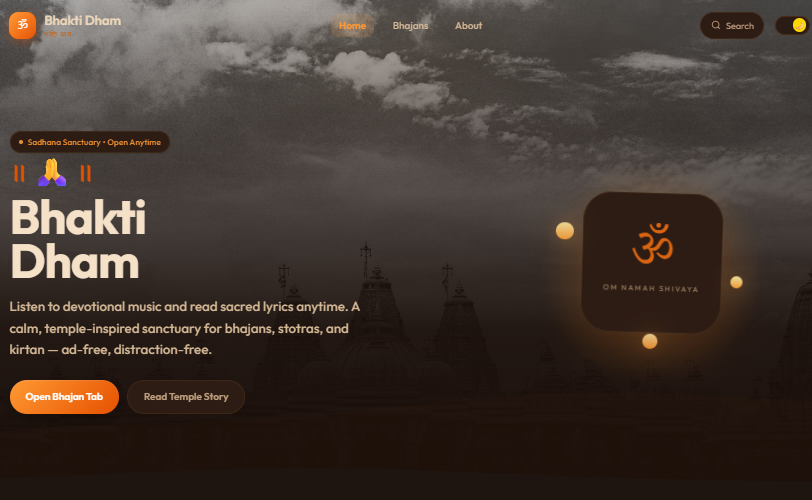
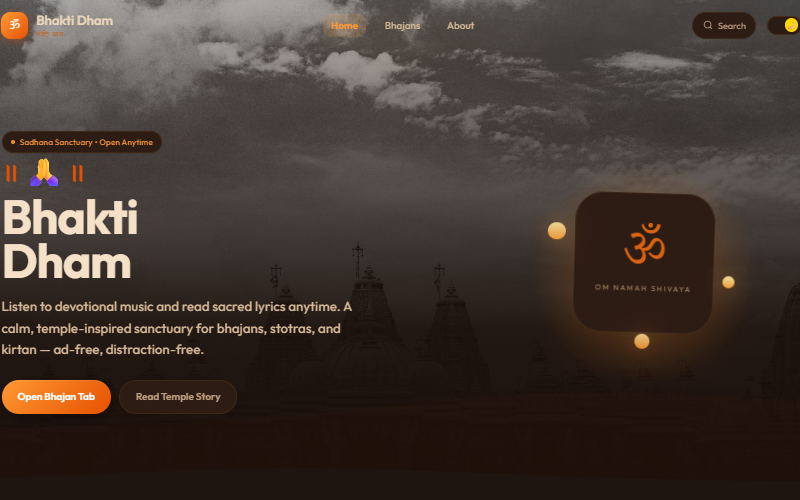
feat: add PasteLab project card with image, description, and links

diff --git a/index.html b/index.html
@@ -627,18 +627,41 @@
           </div>
         </div>
 
-        <!-- Project 3 -->
+        <!-- Project 3: PasteLab -->
         <div class="project-card">
           <div class="project-preview">
-            <div class="coming-soon-badge">Coming Soon</div>
+            <img src="assets/pastelab.png" alt="PasteLab - Clipboard & Snippet Manager Preview" class="project-preview-img">
           </div>
           <div class="project-info">
-            <span class="project-category">Frontend & Backend</span>
-            <h3 class="project-name">Project 3</h3>
+            <span class="project-category">Frontend Development</span>
+            <h3 class="project-name">PasteLab — Clipboard & Snippet Manager</h3>
+            <p class="project-description">A sleek clipboard and code snippet manager for quickly saving, organizing, and retrieving text snippets — featuring syntax highlighting, instant search, and a clean developer-focused interface.</p>
             <div class="project-tags">
-              <span class="project-tag">—</span>
-              <span class="project-tag">—</span>
-              <span class="project-tag">—</span>
+              <span class="project-tag">React</span>
+              <span class="project-tag">Vite</span>
+              <span class="project-tag">Tailwind CSS</span>
+            </div>
+            <div class="project-links">
+              <a href="https://github.com/Priyanshu-Jangra-0007/Pastelab" target="_blank" rel="noopener noreferrer"
+                class="project-link-btn" aria-label="GitHub Repository">
+                <svg viewBox="0 0 24 24" fill="none" stroke="currentColor" stroke-width="2" stroke-linecap="round"
+                  stroke-linejoin="round" class="link-icon">
+                  <path
+                    d="M9 19c-5 1.5-5-2.5-7-3m14 6v-3.87a3.37 3.37 0 0 0-.94-2.61c3.14-.35 6.44-1.54 6.44-7A5.44 5.44 0 0 0 20 4.77 5.07 5.07 0 0 0 19.91 1S18.73.65 16 2.48a13.38 13.38 0 0 0-7 0C6.27.65 5.09 1 5.09 1A5.07 5.07 0 0 0 5 4.77a5.44 5.44 0 0 0-1.5 3.78c0 5.42 3.3 6.61 6.44 7A3.37 3.37 0 0 0 9 18.13V22">
+                  </path>
+                </svg>
+                Code
+              </a>
+              <a href="https://pastelab.netlify.app/" target="_blank"
+                rel="noopener noreferrer" class="project-link-btn" aria-label="Live Demo">
+                <svg viewBox="0 0 24 24" fill="none" stroke="currentColor" stroke-width="2" stroke-linecap="round"
+                  stroke-linejoin="round" class="link-icon">
+                  <path d="M18 13v6a2 2 0 0 1-2 2H5a2 2 0 0 1-2-2V8a2 2 0 0 1 2-2h6"></path>
+                  <polyline points="15 3 21 3 21 9"></polyline>
+                  <line x1="10" y1="14" x2="21" y2="3"></line>
+                </svg>
+                Live
+              </a>
             </div>
           </div>
         </div>